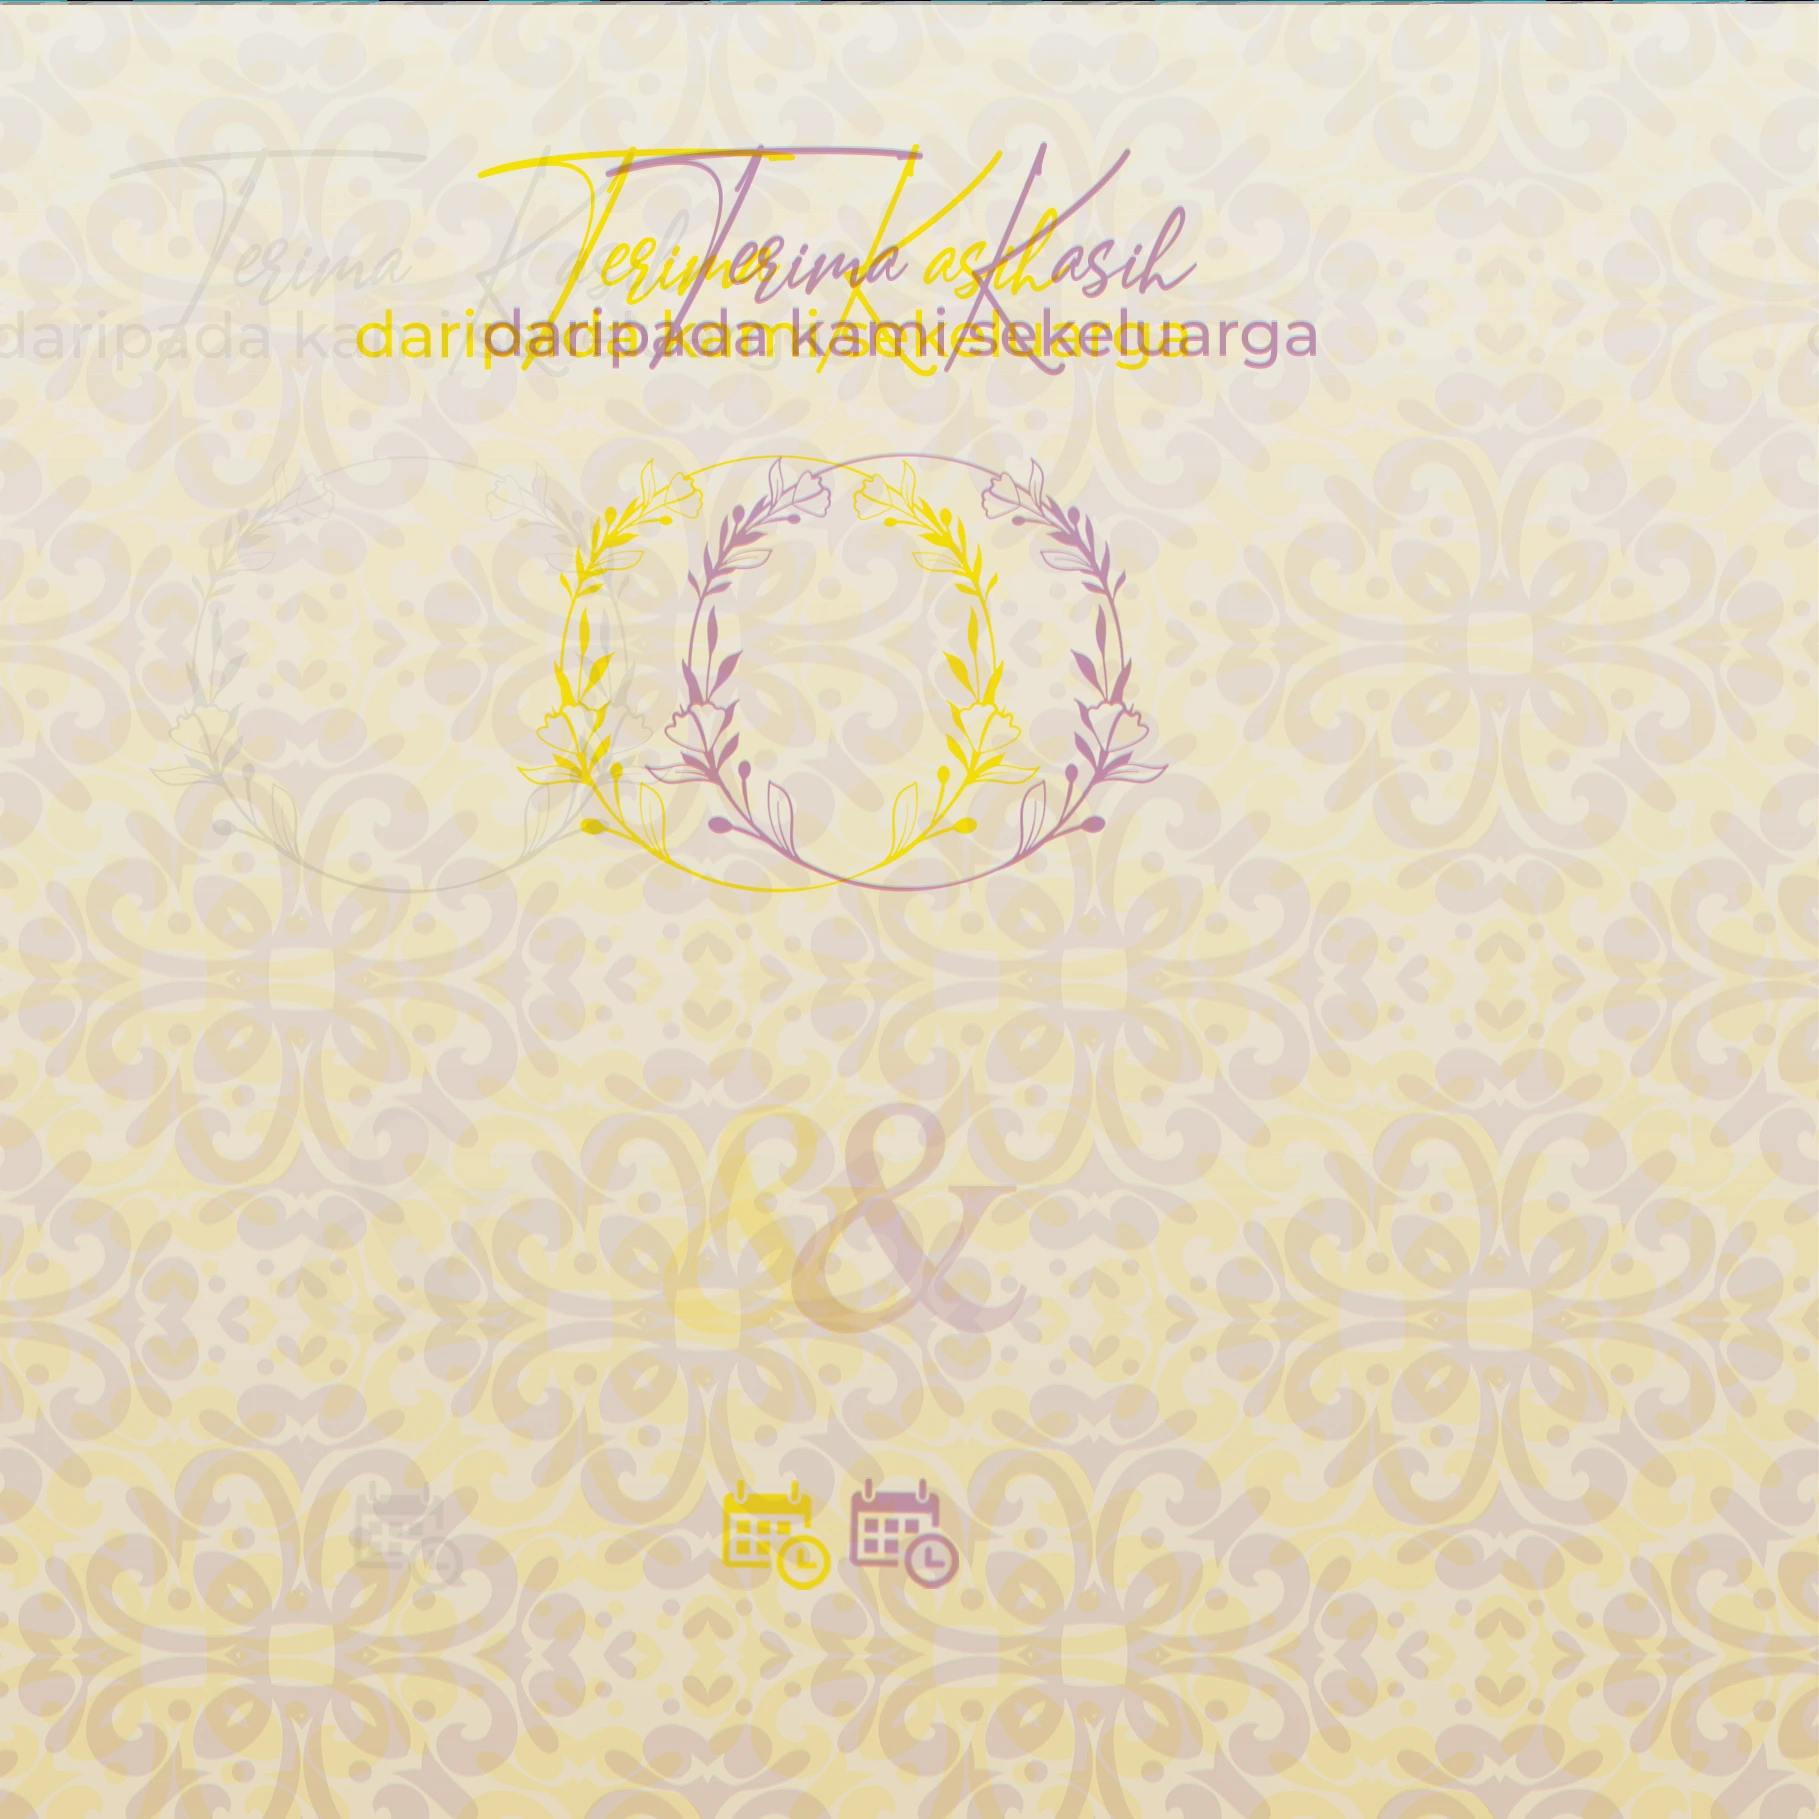
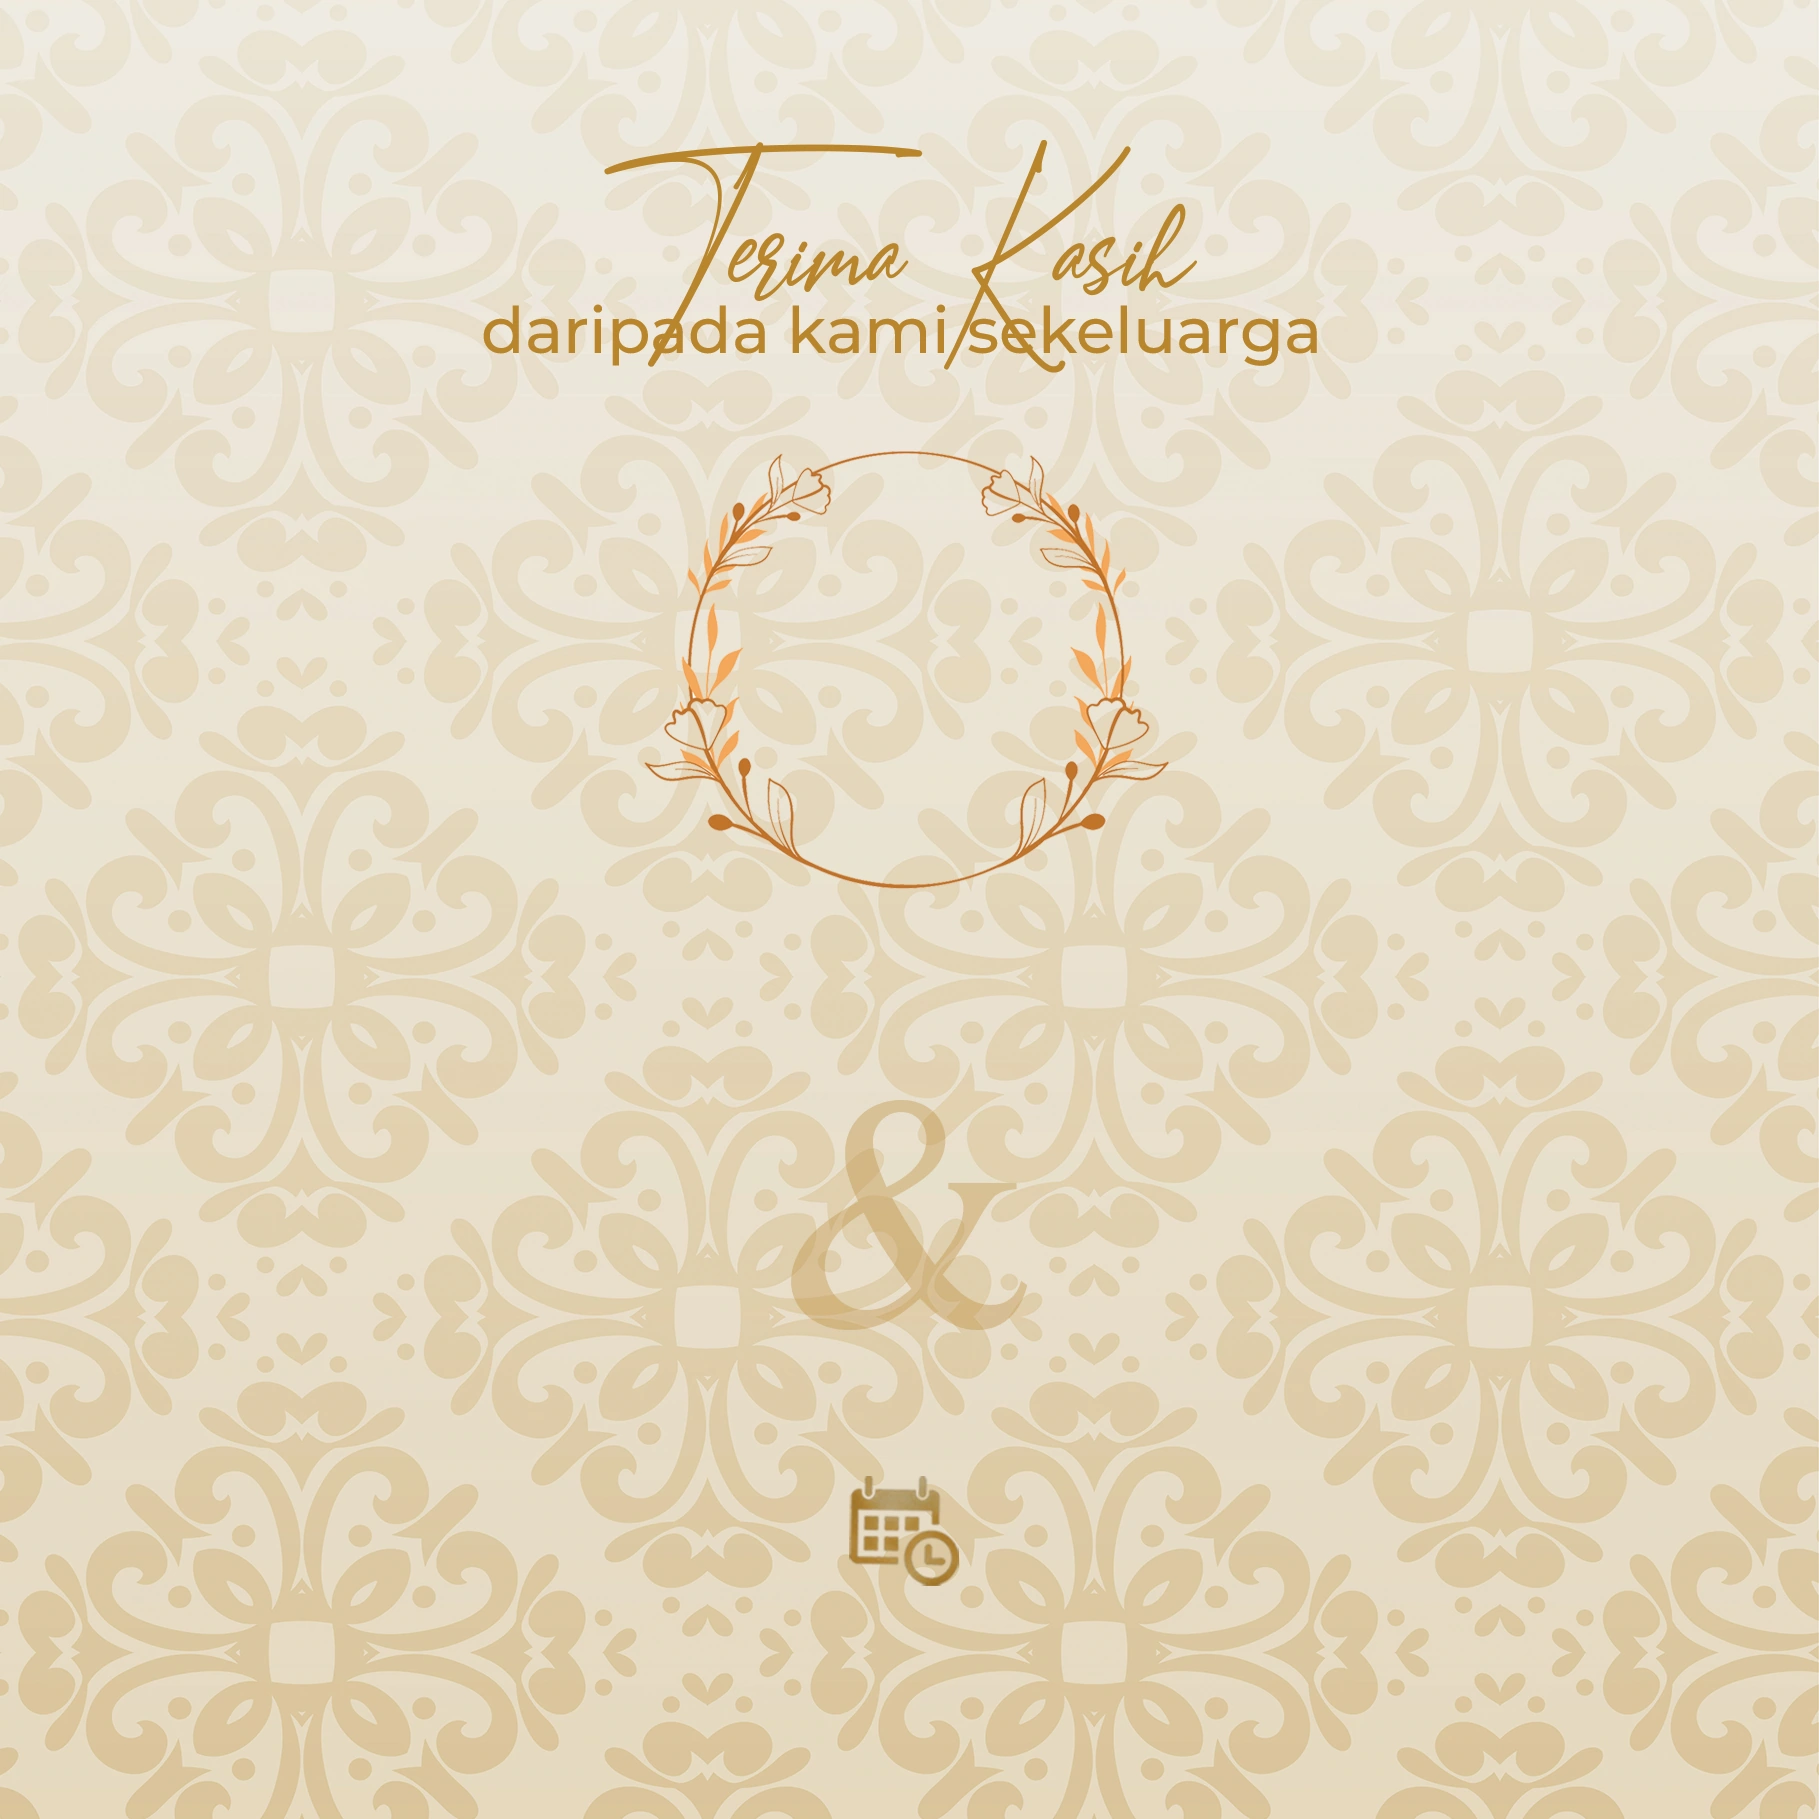
Correct CKS-209 Songket master preview

diff --git a/public/css/customer-preview-layout.css b/public/css/customer-preview-layout.css
@@ -10353,6 +10353,44 @@
 .live-product[data-design-code="CKS-220"][data-preview-artwork-slot="arrow-left"][data-design-artwork]:not(.has-customer-photo):not(.has-live-customer-photo) .desa-product-copy-kicker,
 .live-product[data-design-code="CKS-220"][data-preview-artwork-slot="arrow-right"][data-design-artwork]:not(.has-customer-photo):not(.has-live-customer-photo) .desa-product-copy-kicker,
 .live-product[data-design-code="CKS-223"][data-preview-artwork-slot="arrow-left"][data-design-artwork]:not(.has-customer-photo):not(.has-live-customer-photo) .desa-product-copy-kicker,
-.live-product[data-design-code="CKS-223"][data-preview-artwork-slot="arrow-right"][data-design-artwork]:not(.has-customer-photo):not(.has-live-customer-photo) .desa-product-copy-kicker {
+.live-product[data-design-code="CKS-223"][data-preview-artwork-slot="arrow-right"][data-design-artwork]:not(.has-customer-photo):not(.has-live-customer-photo) .desa-product-copy-kicker,
+.wedding-card-front[data-design-code="CKS-209"][data-preview-artwork-slot="card-front"][data-design-artwork]:not(.has-customer-photo):not(.has-live-customer-photo) .desa-card-custom-title {
     display: none !important;
 }
+.songket-monogram-initial {
+    display: none;
+}
+
+[data-design-code="CKS-209"][data-preview-artwork-slot="card-front"] .songket-monogram-initial,
+[data-design-code="CKS-209"][data-preview-artwork-slot="bunting"] .songket-monogram-initial,
+[data-design-code="CKS-209"][data-preview-artwork-slot="sticker"] .songket-monogram-initial {
+    position: absolute;
+    z-index: 2;
+    display: block;
+    width: 22%;
+    color: #b8852c;
+    font-family: "PSD GreatVibes-Regular", "Brush Script MT", cursive;
+    font-weight: 400;
+    line-height: 1;
+    text-align: center;
+    text-shadow: none;
+    white-space: nowrap;
+    transform: translate(-50%, -50%);
+    pointer-events: none;
+}
+
+[data-design-code="CKS-209"][data-preview-artwork-slot="card-front"] .songket-monogram-initial,
+[data-design-code="CKS-209"][data-preview-artwork-slot="bunting"] .songket-monogram-initial {
+    font-size: 17.45cqw;
+}
+
+[data-design-code="CKS-209"][data-preview-artwork-slot="sticker"] .songket-monogram-initial {
+    font-size: 7cqw;
+}
+
+[data-design-code="CKS-209"][data-preview-artwork-slot="card-front"] .songket-monogram-initial--groom { left: 41.71%; top: 33%; }
+[data-design-code="CKS-209"][data-preview-artwork-slot="card-front"] .songket-monogram-initial--bride { left: 58.71%; top: 37.31%; }
+[data-design-code="CKS-209"][data-preview-artwork-slot="bunting"] .songket-monogram-initial--groom { left: 42.38%; top: 32.21%; }
+[data-design-code="CKS-209"][data-preview-artwork-slot="bunting"] .songket-monogram-initial--bride { left: 58.38%; top: 35.44%; }
+[data-design-code="CKS-209"][data-preview-artwork-slot="sticker"] .songket-monogram-initial--groom { left: 46.67%; top: 35.29%; }
+[data-design-code="CKS-209"][data-preview-artwork-slot="sticker"] .songket-monogram-initial--bride { left: 53.11%; top: 37.85%; }

diff --git a/resources/views/orders/dashboard.blade.php b/resources/views/orders/dashboard.blade.php
@@ -1691,7 +1691,9 @@ document.addEventListener('DOMContentLoaded', function () {
                 placeholder.hidden = shouldShowArtwork || isUnavailable;
                 const artworkVersion = theme === 'minimalist'
                     ? '?v=' + artworkAssetVersion
-                    : (normalizedCode === 'CKI-814' && type === 'banner' ? '?v=4ec40cdb53e9a385' : '');
+                    : (normalizedCode === 'CKS-209' && type === 'sticker'
+                        ? '?v=7ea10273d5954369'
+                        : (normalizedCode === 'CKI-814' && type === 'banner' ? '?v=4ec40cdb53e9a385' : ''));
                 const artworkSource = shouldShowArtwork ? assetBase + type + '.webp' + artworkVersion : '';
                 product.dataset.themeArtworkSrc = artworkSource;
                 syncArtworkImage(artwork, artworkSource, normalizedCode + ' ' + themeName + ' ' + type.replaceAll('-', ' ') + ' design');
@@ -1770,6 +1772,34 @@ document.addEventListener('DOMContentLoaded', function () {
                 item.setAttribute('data-theme', theme);
             });
             syncDesignArtwork(scope, theme, designCode);
+
+            // CKS-209 has a two-letter monogram inside its wreath in the master.
+            // Keep those letters tied to the customer's abbreviations.
+            scope.querySelectorAll('[data-preview-artwork-slot="card-front"], [data-preview-artwork-slot="bunting"], [data-preview-artwork-slot="sticker"]').forEach(function (product) {
+                const overlay = product.querySelector('[data-desa-card-name-overlay], [data-desa-product-name-overlay]');
+                if (!overlay) {
+                    return;
+                }
+                if (theme !== 'songket' || designCode.toUpperCase() !== 'CKS-209') {
+                    overlay.querySelectorAll('.songket-monogram-initial').forEach(function (initial) {
+                        initial.remove();
+                    });
+                    return;
+                }
+                [groomDisplay, brideDisplay].forEach(function (name, index) {
+                    const role = index === 0 ? 'groom' : 'bride';
+                    let initial = overlay.querySelector('.songket-monogram-initial--' + role);
+                    if (!initial) {
+                        initial = document.createElement('span');
+                        initial.className = 'songket-monogram-initial songket-monogram-initial--' + role;
+                        initial.setAttribute('aria-hidden', 'true');
+                        overlay.appendChild(initial);
+                    }
+                    initial.textContent = Array.from(name.trim()).find(function (letter) {
+                        return /\p{L}/u.test(letter);
+                    }) || '';
+                });
+            });
         }
 
         function syncCard(side) {
